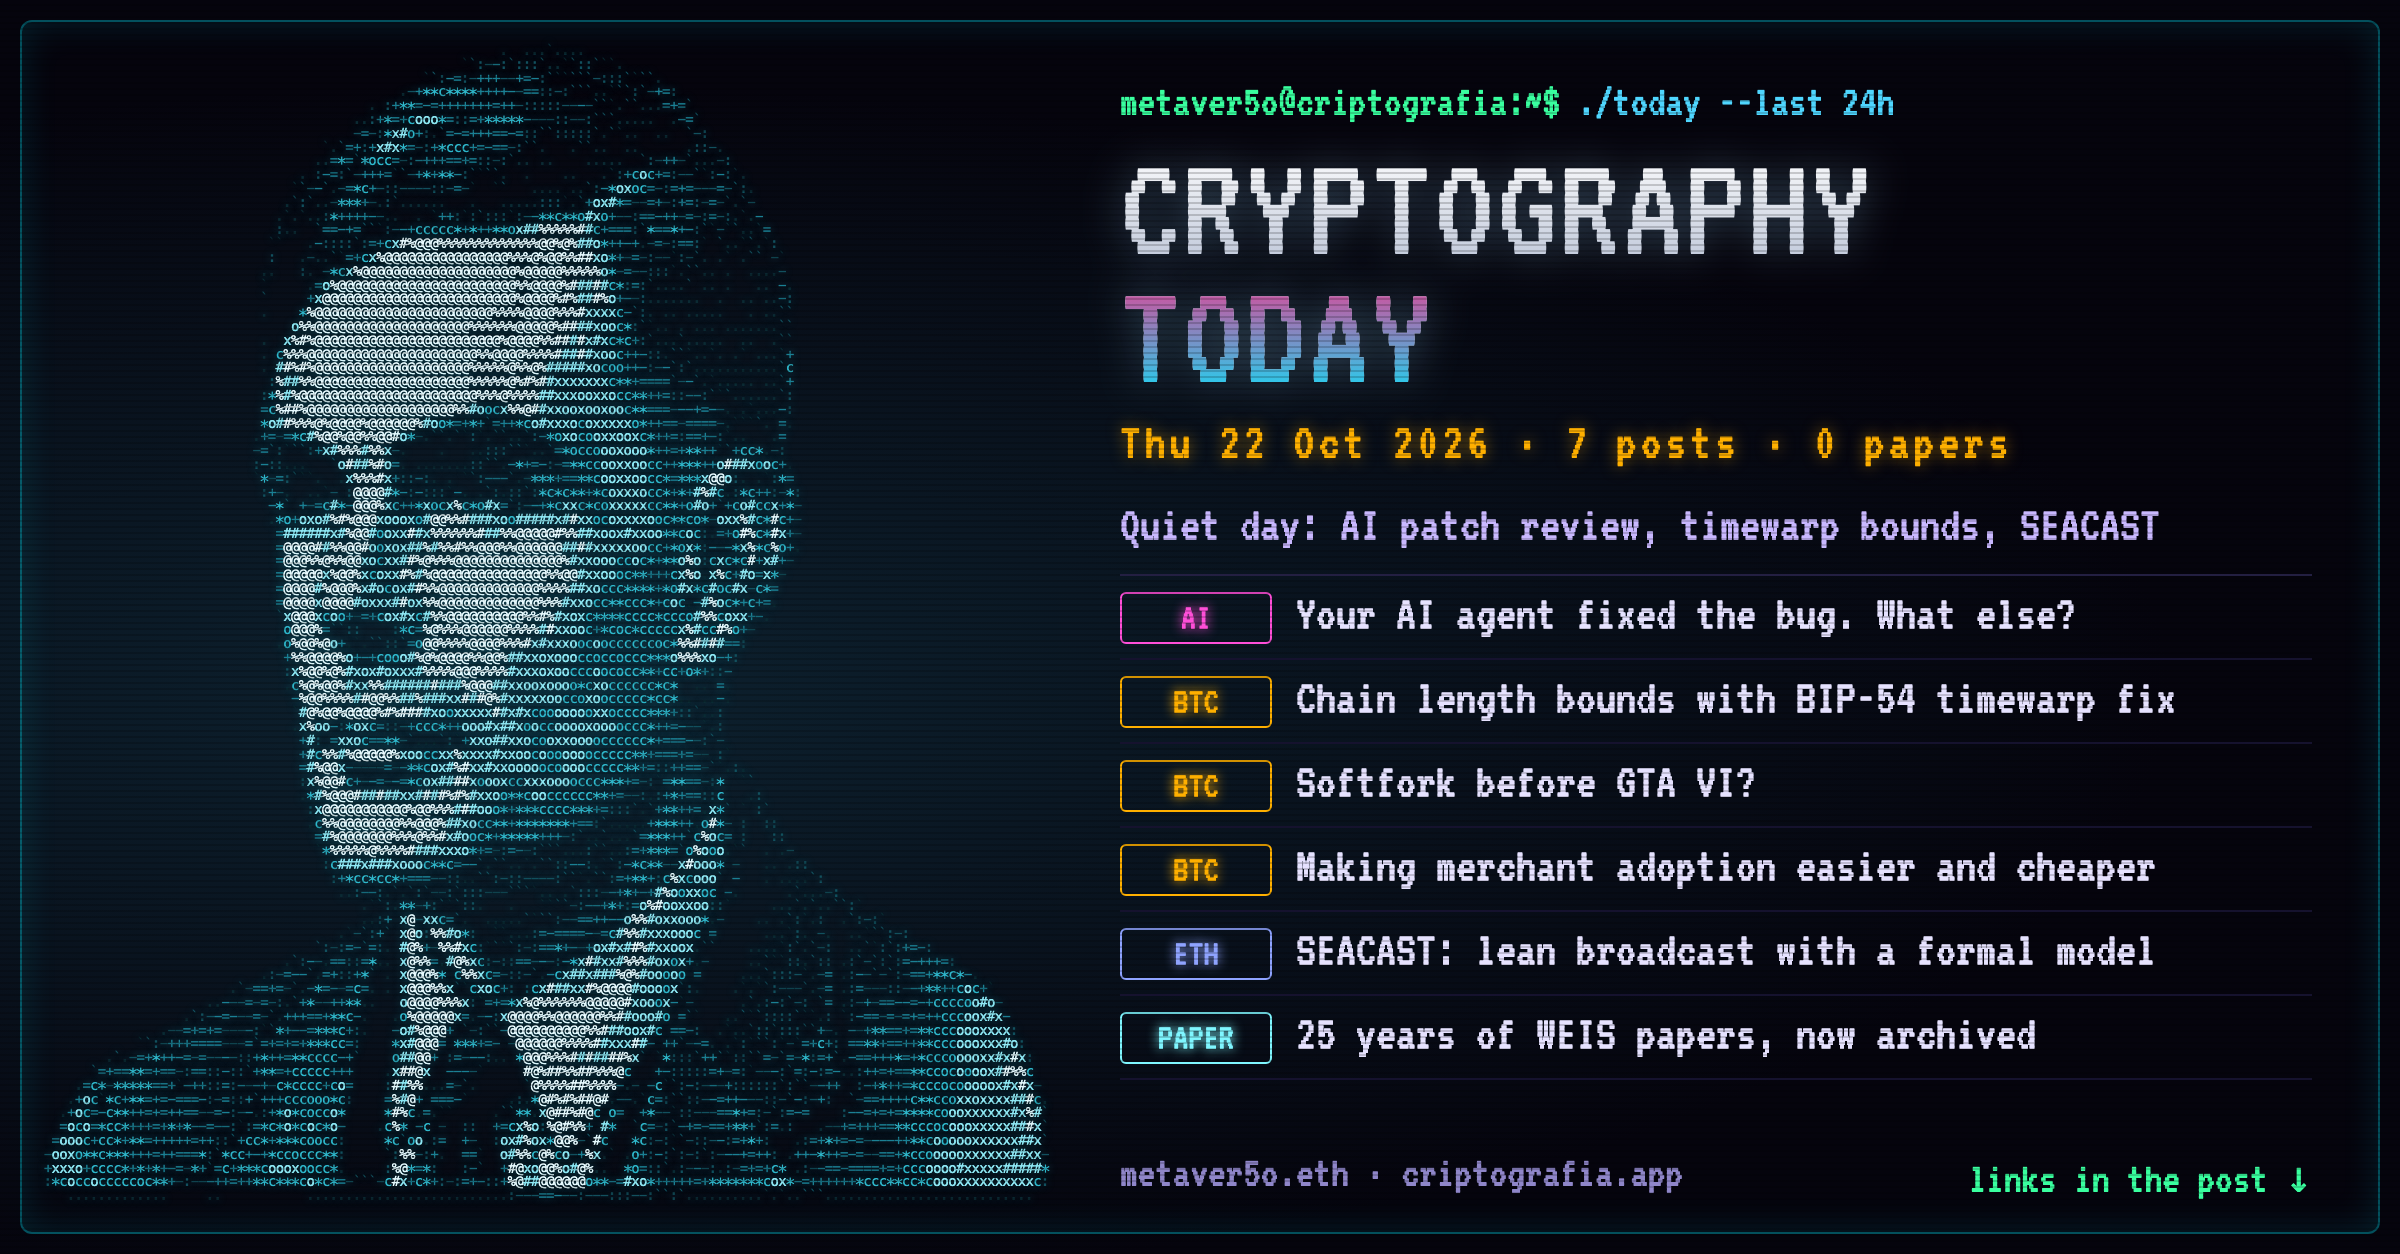
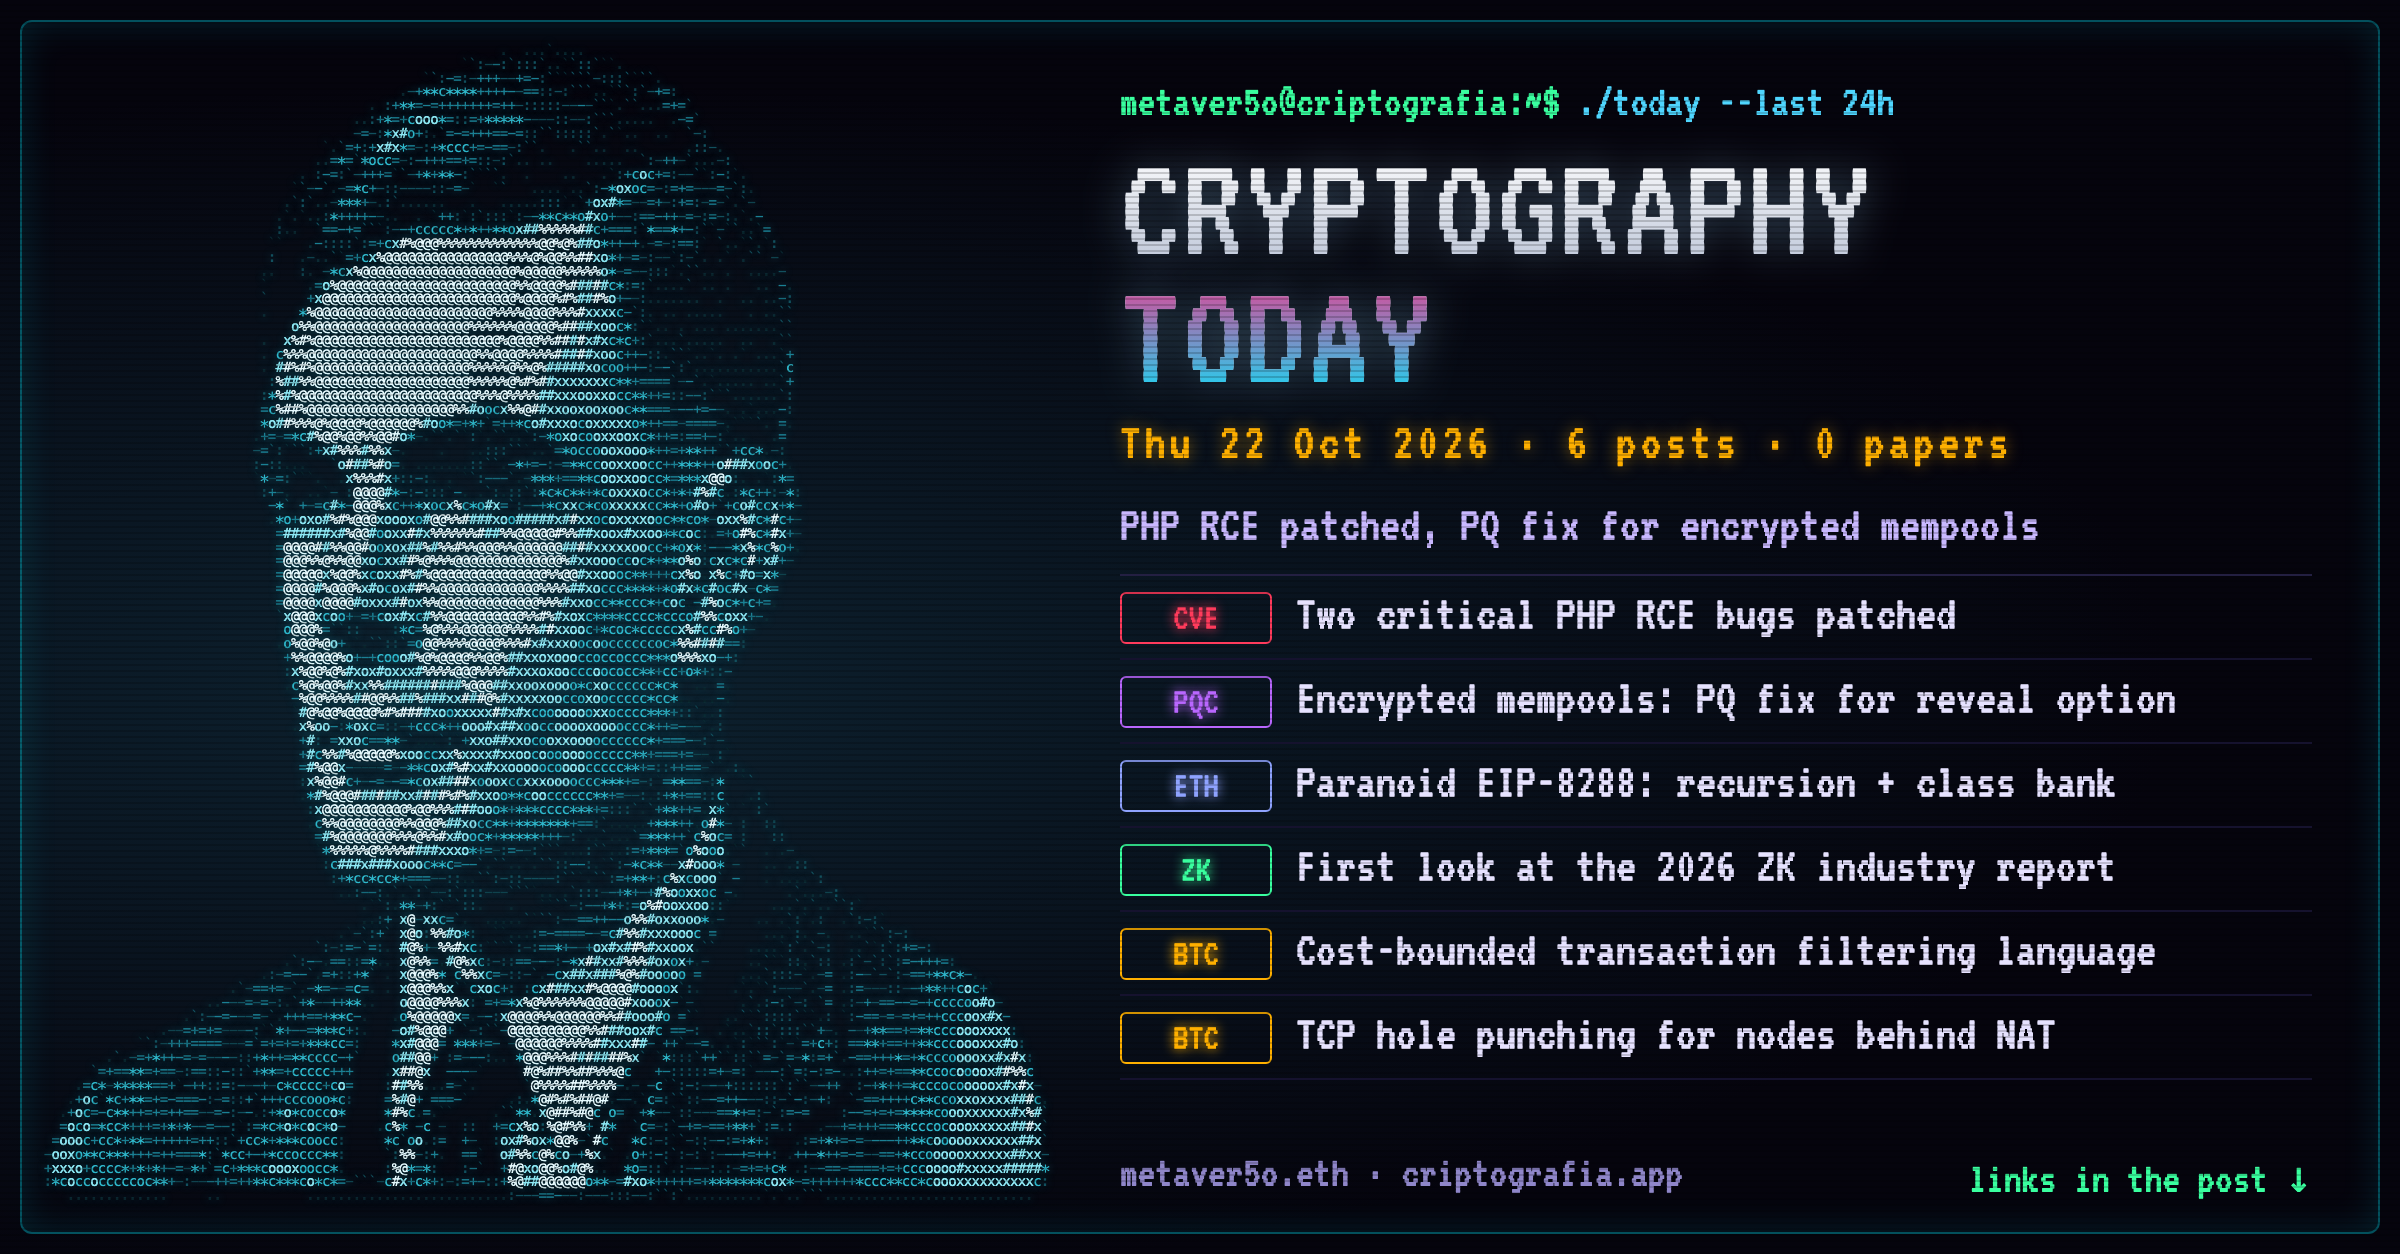
Edition 2026-10-22: use today's local date

diff --git a/index.html b/index.html
@@ -15,11 +15,11 @@ pre.post a { color: var(--c); text-decoration: none; text-shadow: 0 0 6px var(--
 pre.post a:hover { text-decoration: underline; }
 pre.post { white-space: pre-wrap; background: #05040d; border: 1px solid #1a1638; padding: 12px; border-radius: 6px; margin: 0; }
 </style></head><body><main>
-<h1>CRYPTOGRAPHY TODAY</h1><div class="sub">Daily roundup · 7 edition(s)</div>
-<article><h2>2026-10-23</h2>
-<a href="editions/2026-10-23/banner.png"><img src="editions/2026-10-23/banner.png" alt="Cryptography Today banner, 2026-10-23"></a>
-<div class="row"><button onclick="copy(this)">Copy post</button><a href="editions/2026-10-23/banner.png" download>Download banner</a></div>
-<pre class="post">Cryptography Today — Oct 23, 2026
+<h1>CRYPTOGRAPHY TODAY</h1><div class="sub">Daily roundup · 6 edition(s)</div>
+<article><h2>2026-10-22</h2>
+<a href="editions/2026-10-22/banner.png"><img src="editions/2026-10-22/banner.png" alt="Cryptography Today banner, 2026-10-22"></a>
+<div class="row"><button onclick="copy(this)">Copy post</button><a href="editions/2026-10-22/banner.png" download>Download banner</a></div>
+<pre class="post">Cryptography Today — Oct 22, 2026
 
 PHP shipped fixes for two critical unauthenticated RCE bugs: if you run PHP anywhere near keys or wallets, patch now.
 
@@ -40,7 +40,7 @@ PHP shipped fixes for two critical unauthenticated RCE bugs: if you run PHP anyw
 • <a href="https://ethresear.ch/t/paranoid-eip-8288-heterogeneous-recursion-with-an-authenticated-class-bank/26170" target="_blank" rel="noopener" style="--c:#8fa3ff">[LINK]</a> Paranoid EIP-8288: heterogeneous recursion with an authenticated class bank
 
 What did I miss? Drop it below.
-#Cryptography #PostQuantum #Bitcoin #ZeroKnowledge</pre><pre class="raw" hidden>Cryptography Today — Oct 23, 2026
+#Cryptography #PostQuantum #Bitcoin #ZeroKnowledge</pre><pre class="raw" hidden>Cryptography Today — Oct 22, 2026
 
 PHP shipped fixes for two critical unauthenticated RCE bugs: if you run PHP anywhere near keys or wallets, patch now.
 
@@ -59,48 +59,6 @@ PHP shipped fixes for two critical unauthenticated RCE bugs: if you run PHP anyw
 
 Ξ Ethereum research
 • Paranoid EIP-8288: heterogeneous recursion with an authenticated class bank — https://ethresear.ch/t/paranoid-eip-8288-heterogeneous-recursion-with-an-authenticated-class-bank/26170
-
-What did I miss? Drop it below.
-#Cryptography #PostQuantum #Bitcoin #ZeroKnowledge
-</pre></article><article><h2>2026-10-22</h2>
-<a href="editions/2026-10-22/banner.png"><img src="editions/2026-10-22/banner.png" alt="Cryptography Today banner, 2026-10-22"></a>
-<div class="row"><button onclick="copy(this)">Copy post</button><a href="editions/2026-10-22/banner.png" download>Download banner</a></div>
-<pre class="post">Cryptography Today — Oct 22, 2026
-
-A quiet day, led by Trail of Bits on the question every team using coding agents should ask: the agent fixed the bug, but what else did it change?
-
-🔐 Security &amp; attacks
-• <a href="https://blog.trailofbits.com/2026/10/21/your-ai-agent-fixed-the-bug-but-what-else-did-it-change/" target="_blank" rel="noopener" style="--c:#ff3b5c">[LINK]</a> Your AI agent fixed the bug, but what else did it change?
-
-₿ Bitcoin
-• <a href="https://delvingbitcoin.org/t/bounds-on-chain-length-with-bip-54-timewarp-fixes/2899" target="_blank" rel="noopener" style="--c:#ffb000">[LINK]</a> Bounds on chain length with BIP-54 timewarp fixes
-• <a href="https://delvingbitcoin.org/t/softfork-before-gta-vi/2913" target="_blank" rel="noopener" style="--c:#ffb000">[LINK]</a> Softfork before GTA VI?
-• <a href="https://delvingbitcoin.org/t/several-projects-to-make-merchant-adoption-easier-and-cheaper/2967" target="_blank" rel="noopener" style="--c:#ffb000">[LINK]</a> Projects to make merchant adoption easier and cheaper
-
-Ξ Ethereum research
-• <a href="https://ethresear.ch/t/seacast-fast-lean-broadcast-for-ethereum-with-an-executable-spec-and-a-formal-model/26167" target="_blank" rel="noopener" style="--c:#8fa3ff">[LINK]</a> SEACAST: lean broadcast with an executable spec and formal model
-
-📄 Reading list
-• <a href="https://www.schneier.com/blog/archives/2026/10/workshop-on-economics-and-information-security-weis-archive.html" target="_blank" rel="noopener" style="--c:#8fa3ff">[LINK]</a> 25 years of WEIS (economics of security) papers, archived
-
-What did I miss? Drop it below.
-#Cryptography #PostQuantum #Bitcoin #ZeroKnowledge</pre><pre class="raw" hidden>Cryptography Today — Oct 22, 2026
-
-A quiet day, led by Trail of Bits on the question every team using coding agents should ask: the agent fixed the bug, but what else did it change?
-
-🔐 Security &amp; attacks
-• Your AI agent fixed the bug, but what else did it change? — https://blog.trailofbits.com/2026/10/21/your-ai-agent-fixed-the-bug-but-what-else-did-it-change/
-
-₿ Bitcoin
-• Bounds on chain length with BIP-54 timewarp fixes — https://delvingbitcoin.org/t/bounds-on-chain-length-with-bip-54-timewarp-fixes/2899
-• Softfork before GTA VI? — https://delvingbitcoin.org/t/softfork-before-gta-vi/2913
-• Projects to make merchant adoption easier and cheaper — https://delvingbitcoin.org/t/several-projects-to-make-merchant-adoption-easier-and-cheaper/2967
-
-Ξ Ethereum research
-• SEACAST: lean broadcast with an executable spec and formal model — https://ethresear.ch/t/seacast-fast-lean-broadcast-for-ethereum-with-an-executable-spec-and-a-formal-model/26167
-
-📄 Reading list
-• 25 years of WEIS (economics of security) papers, archived — https://www.schneier.com/blog/archives/2026/10/workshop-on-economics-and-information-security-weis-archive.html
 
 What did I miss? Drop it below.
 #Cryptography #PostQuantum #Bitcoin #ZeroKnowledge
